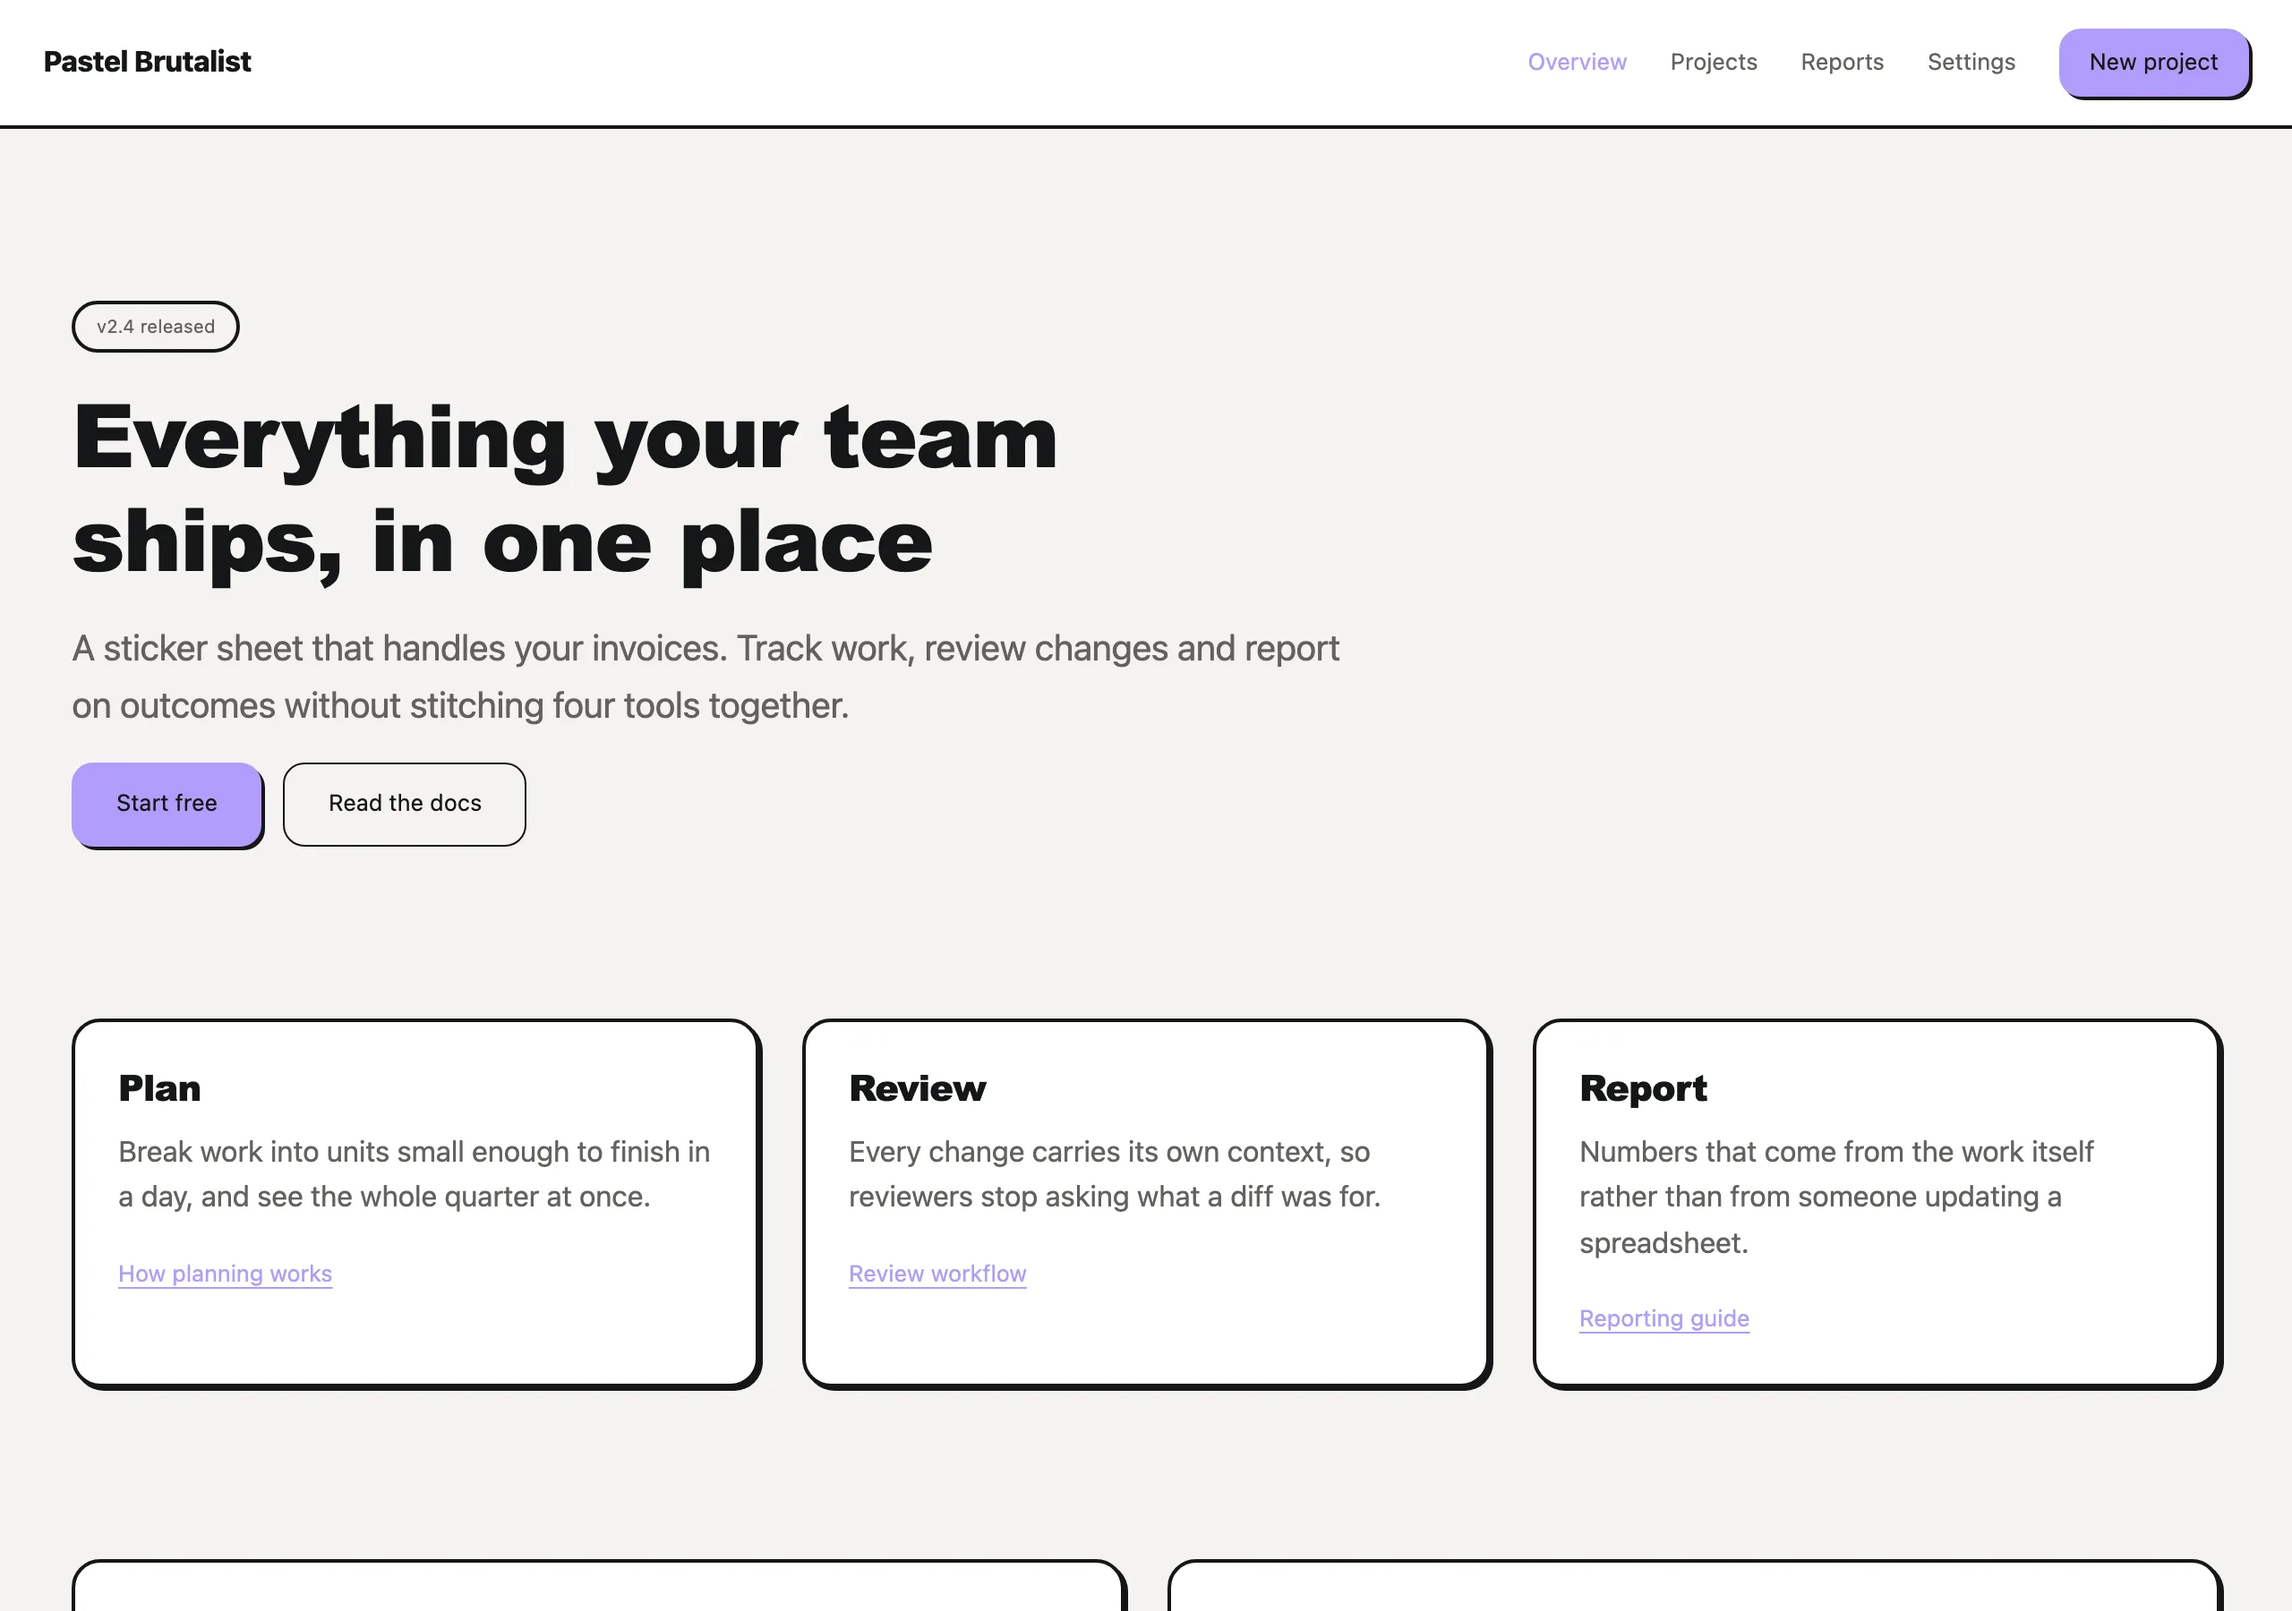
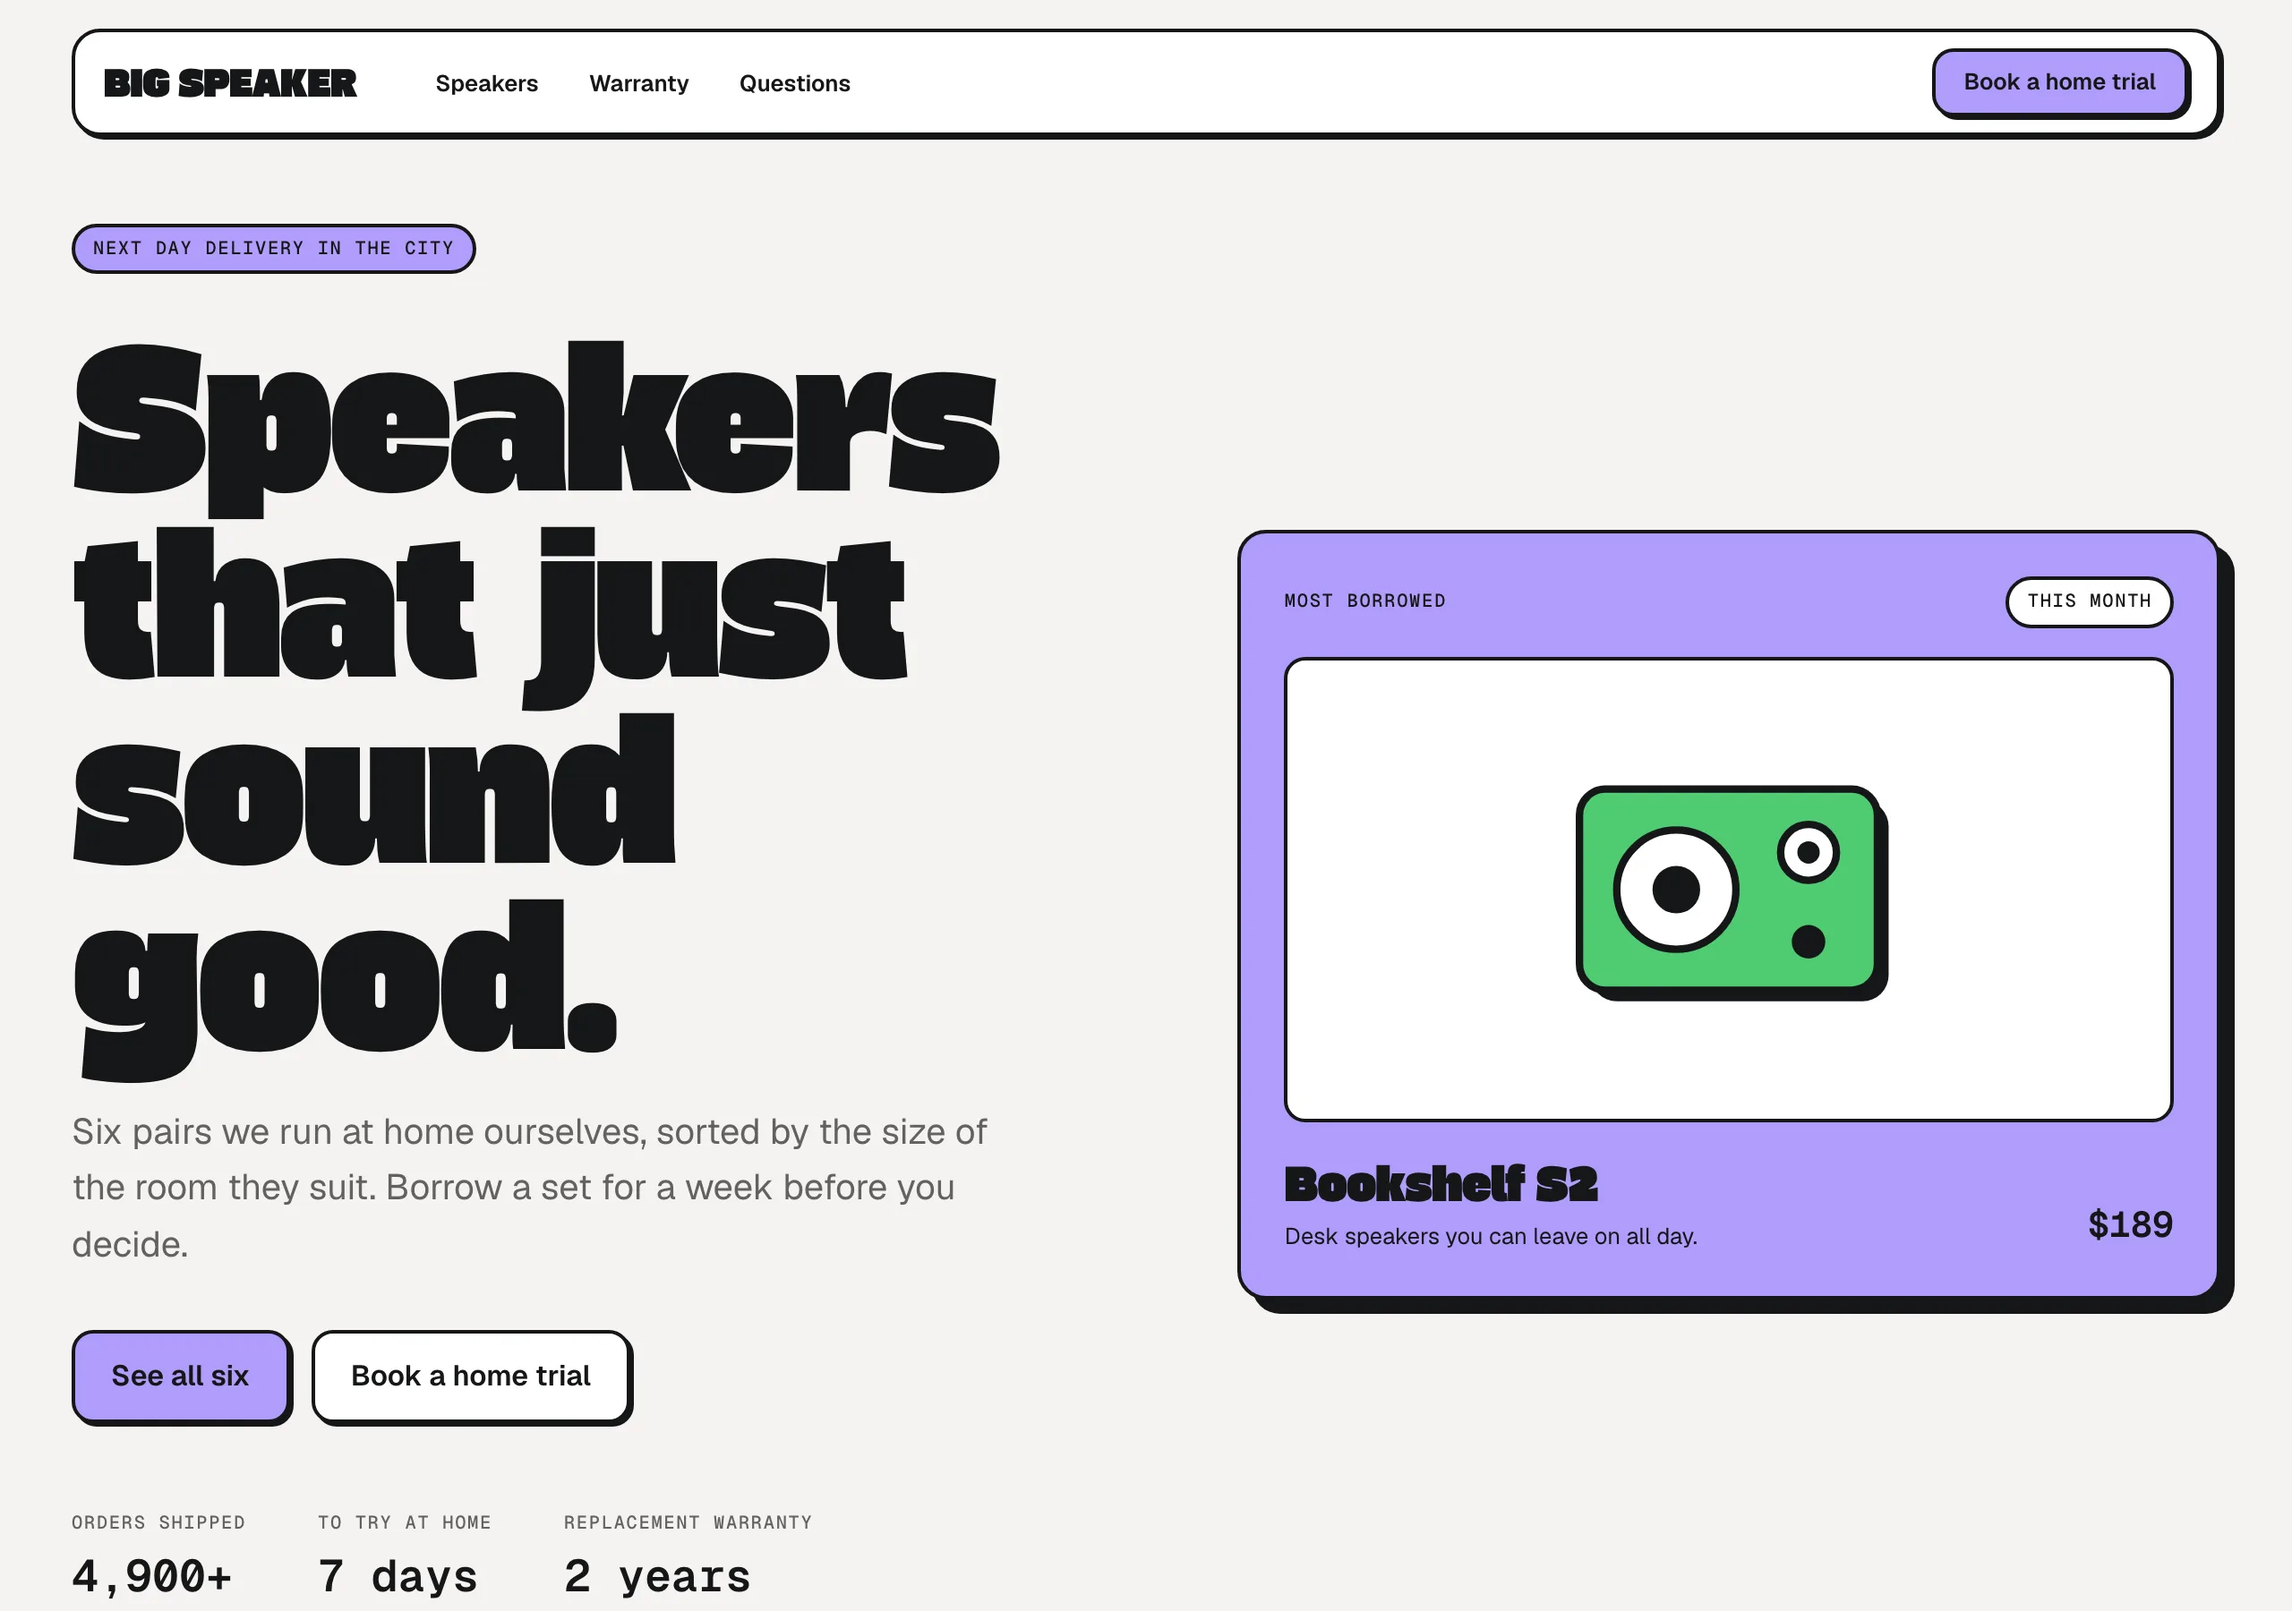
update: files

diff --git a/packages/styles-md/src/index.test.ts b/packages/styles-md/src/index.test.ts
@@ -5,7 +5,7 @@ import { loadStyles } from "./parse.js";
 import { deriveScales, flattenTokens, toCss, toShadcn } from "./compile.js";
 import { checkContrast } from "./contrast.js";
 import { splitSections, missingAgentSections, toMinified } from "./minify.js";
-import { validateDir } from "./validate.js";
+import { validateDir, validateStyle } from "./validate.js";
 import { checkFontLicensing, parseStack } from "./fonts.js";
 
 const STYLES_DIR = join(import.meta.dirname, "..", "..", "..", "styles");
@@ -35,6 +35,20 @@ function baseTokens() {
     motion: { duration: "160ms", easing: "ease" },
   };
 }
+
+/** Wraps parsed frontmatter into the on-disk Style shape validateStyle takes. */
+function styleAt(meta: ReturnType<typeof styleFixture>, body = REQUIRED_SECTIONS) {
+  return { slug: meta.id, dir: `/tmp/${meta.id}`, file: `/tmp/${meta.id}/DESIGN.md`, meta, body };
+}
+
+const REQUIRED_SECTIONS = [
+  "## Principles",
+  "- a principle",
+  "## Components",
+  "- Button: a button",
+  "## Do / Don't",
+  "- Do something",
+].join("\n\n");
 
 function styleFixture(overrides: Record<string, unknown> = {}) {
   return styleSchema.parse({
@@ -83,6 +97,28 @@ describe("schema", () => {
     expect(() =>
       styleFixture({ showcase: [{ label: "Acme", url: "http://example.com" }] }),
     ).toThrow();
+  });
+
+  it("shows the built-in demo unless a style opts out", () => {
+    expect(styleFixture().showDemo).toBe(true);
+    expect(styleFixture({ showDemo: false }).showDemo).toBe(false);
+  });
+
+  it("refuses to drop the demo when no showcase can replace it", () => {
+    const noPreview = validateStyle(
+      styleAt(styleFixture({ showDemo: false })),
+    );
+    expect(noPreview.errors.some((e) => e.includes("no preview at all"))).toBe(true);
+
+    const withShowcase = validateStyle(
+      styleAt(
+        styleFixture({
+          showDemo: false,
+          showcase: [{ label: "Acme", url: "https://acme.example.com", embed: true }],
+        }),
+      ),
+    );
+    expect(withShowcase.errors.some((e) => e.includes("no preview at all"))).toBe(false);
   });
 });
 

diff --git a/packages/styles-md/src/schema.ts b/packages/styles-md/src/schema.ts
@@ -36,6 +36,18 @@ export function buildStyleSchema(z: typeof defaultZ) {
     quality: z.enum(["draft", "reviewed", "featured"]).default("draft"),
 
     /**
+     * Whether the built-in demo page is offered as a preview source.
+     *
+     * It leads by default, because it is the one page that renders identical
+     * content under every style and so makes two styles comparable. A style
+     * whose character only lands at full scale can turn it off and lead with a
+     * real site instead, which costs that comparability. `styles-md validate`
+     * rejects turning it off without a `showcase` entry to take its place,
+     * since the result would be a style page with no preview at all.
+     */
+    showDemo: z.boolean().default(true),
+
+    /**
      * Real sites built with this style, shown alongside the built-in demo.
      *
      * `embed` claims the site can be framed. Most cannot, because `X-Frame-Options` or

diff --git a/packages/styles-md/src/validate.ts b/packages/styles-md/src/validate.ts
@@ -45,6 +45,13 @@ export function validateStyle(style: Style): StyleReport {
     errors.push(`missing required section "## ${title}": agents never see it otherwise`);
   }
 
+  /* Dropping the demo is only allowed if something else can stand in for it. */
+  if (!style.meta.showDemo && style.meta.showcase.length === 0) {
+    errors.push(
+      `showDemo is false with no showcase entry: the style page would have no preview at all`,
+    );
+  }
+
   if (minTokens > TOKEN_BUDGET.min) {
     errors.push(
       `DESIGN.min.md is ~${minTokens} tokens, budget is ${TOKEN_BUDGET.min}; trim the agent sections`,

diff --git a/styles/pastel-brutalist/DESIGN.md b/styles/pastel-brutalist/DESIGN.md
@@ -8,6 +8,9 @@ mood: a sticker sheet that handles your invoices
 summary: Cream page, white cards, 2px ink outlines and hard offset shadows. Flat pastel fills and one ultra-heavy display face carry all the volume.
 tags: [light, brutalist, playful, pastel, saas, marketing]
 quality: draft
+# The built-in demo page is too small a canvas for a style this loud, so the
+# real site leads instead. This costs comparison against other styles.
+showDemo: false
 showcase:
   - label: Big Speaker
     url: https://loa-store.vercel.app
